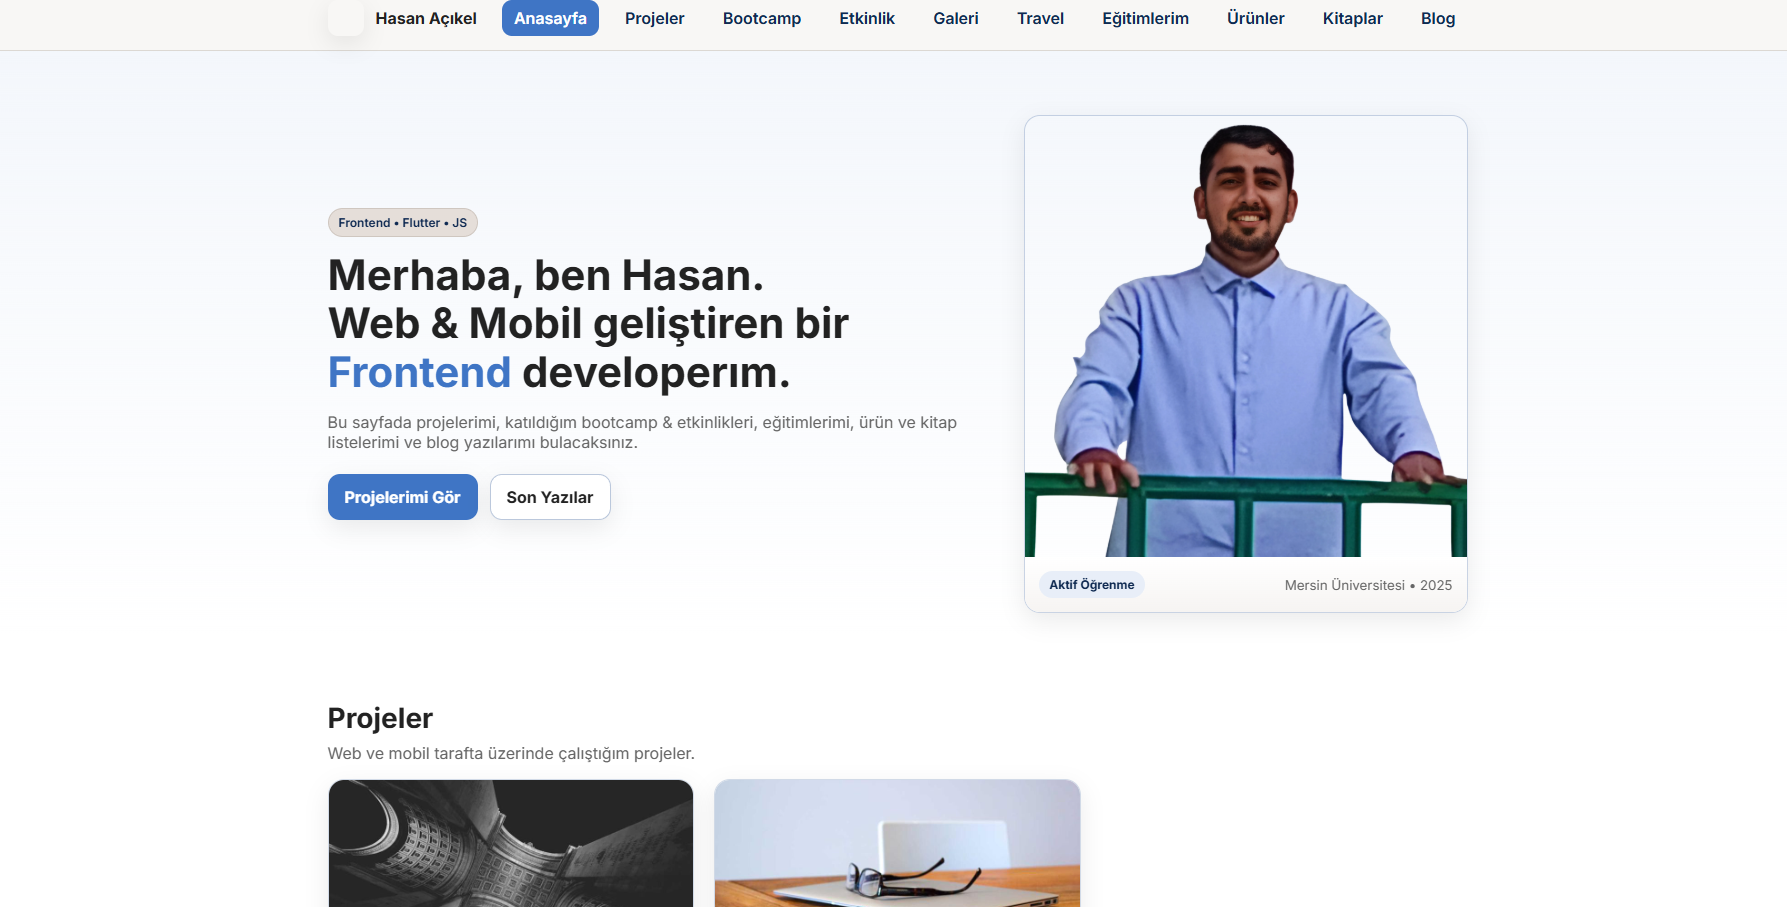
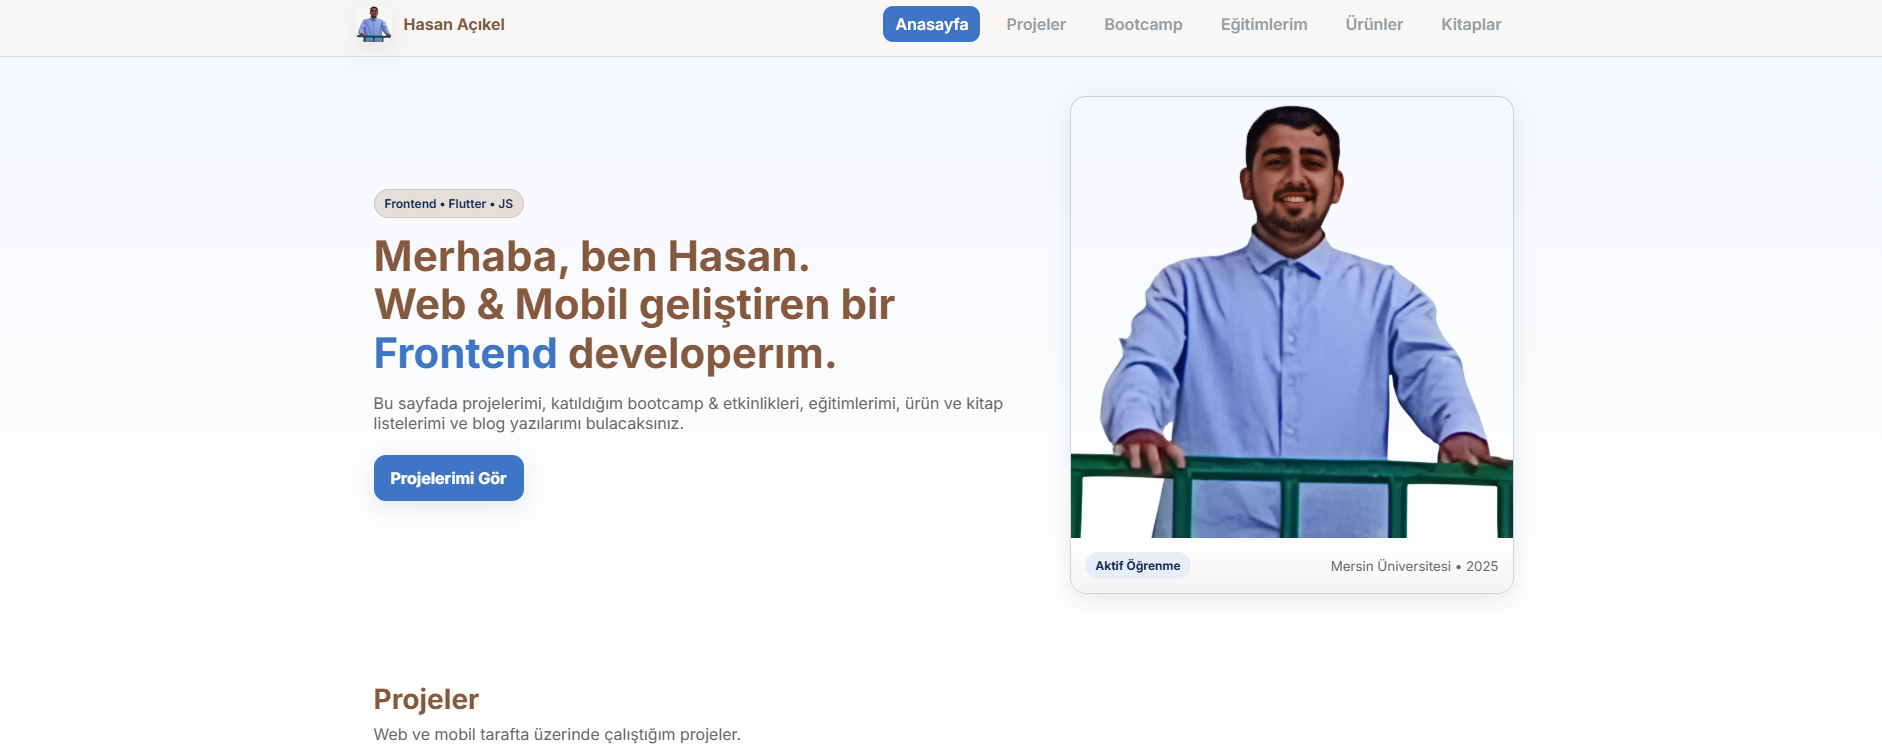
proje tamamlandı

diff --git a/index.html b/index.html
@@ -11,7 +11,7 @@
   <style>
     :root{
       --bg:#ffffff;           
-      --text:#222222;
+      --text:#85593e;
       --muted:#666666;
       --primary:#3f75c5;      
       --accent:#d3c8bf;       
@@ -69,7 +69,7 @@
       background-repeat: no-repeat;
     }
     .menu{display:flex; gap:14px; align-items:center; flex-wrap:wrap}
-    .menu a{padding:8px 12px; border-radius:10px; font-weight:600; color:#0f2a52}
+    .menu a{padding:8px 12px; border-radius:10px; font-weight:600; color:#94a1a6;}
     .menu a:hover{background:color-mix(in srgb, var(--primary) 12%, white 88%)}
     .menu a.active{background:var(--primary); color:white}
     .burger{display:none; border:1px solid color-mix(in srgb, var(--primary) 25%, #000 8%); padding:8px 10px; border-radius:10px}
@@ -105,12 +105,6 @@
     /* Gallery */
     .gallery{display:grid; grid-template-columns:repeat(4, minmax(0,1fr)); gap:10px}
     .gallery img{border-radius:12px; border:1px solid color-mix(in srgb, var(--primary) 16%, #000 6%); cursor:pointer}
-
-    /* Blog */
-    .blog-list{display:grid; grid-template-columns:repeat(2, minmax(0,1fr)); gap:20px}
-    .post{display:flex; gap:16px; border:1px solid color-mix(in srgb, var(--primary) 16%, #000 6%); border-radius:var(--radius); overflow:hidden; background:white}
-    .post img{width:38%; object-fit:cover}
-    .post .body{padding:12px}
 
     /* Footer */
     footer{padding:36px 0; border-top:1px solid color-mix(in srgb, var(--accent) 50%, #000 4%); background:linear-gradient(0deg, color-mix(in srgb, var(--accent) 30%, white 70%), white)}
@@ -148,13 +142,9 @@
         <a href="#anasayfa" class="active">Anasayfa</a>
         <a href="#projeler">Projeler</a>
         <a href="#bootcamp">Bootcamp</a>
-        <a href="#etkinlik">Etkinlik</a>
-        <a href="#galeri">Galeri</a>
-        <a href="#travel">Travel</a>
         <a href="#egitimlerim">Eğitimlerim</a>
         <a href="#urunler">Ürünler</a>
         <a href="#kitaplar">Kitaplar</a>
-        <a href="#blog">Blog</a>
       </nav>
   </header>
 
@@ -163,11 +153,10 @@
     <div class="container hero-grid">
       <div>
         <span class="badge">Frontend • Flutter • JS</span>
-        <h1>Merhaba, ben Hasan. <br/> Web & Mobil geliştiren bir <span style="color:var(--primary)">Frontend</span> developerım.</h1>
-        <p class="lead">Bu sayfada projelerimi, katıldığım bootcamp & etkinlikleri, eğitimlerimi, ürün ve kitap listelerimi ve blog yazılarımı bulacaksınız.</p>
+        <h1>Merhaba, ben Hasan <br/> Web & Mobil geliştiren bir <span style="color:var(--primary)">Frontend</span> developerım.</h1>
+        <p class="lead">Bu sayfada projelerimi, katıldığım bootcamp & eğitimlerimi, ürün ve kitap listelerimi bulacaksınız.</p>
         <div class="cta">
           <a class="btn primary" href="#projeler">Projelerimi Gör</a>
-          <a class="btn ghost" href="#blog">Son Yazılar</a>
         </div>
       </div>
       <div class="hero-card">
@@ -184,10 +173,9 @@
   <section id="projeler">
     <div class="container">
       <h2>Projeler</h2>
-      <p class="section-lead">Web ve mobil tarafta üzerinde çalıştığım projeler.</p>
+      <p class="section-lead">Mobil ve web tarafta üzerinde çalıştığım projeler.</p>
       <div class="grid cards">
         <!-- Proje kartları -->
-        
         <article class="card">
           <img src="notepaddimg.png" alt="Projeden ekran görüntüsü" loading="lazy">
           <div class="content">
@@ -195,6 +183,12 @@
             <p class="lead">Kategori, tarih/saat damgası, kullanıcı girişi, tema geçişi.</p>
             <div style="display:flex; gap:8px; margin-top:8px">
               <span class="chip">Flutter</span><span class="chip">auth</span><span class="chip">database</span>
+            </div>
+            <div style="margin-top:12px;">
+              <a href="https://github.com/hasanacikeloffical/notepadd" target="_blank" rel="noopener" style="color:#3f75c5; font-weight:600; font-size:15px; display:inline-flex; align-items:center; gap:6px;">
+                <svg width="18" height="18" fill="currentColor" style="vertical-align:middle" viewBox="0 0 24 24"><path d="M12 .297c-6.63 0-12 5.373-12 12 0 5.303 3.438 9.8 8.205 11.385.6.113.82-.258.82-.577 0-.285-.01-1.04-.015-2.04-3.338.724-4.042-1.415-4.042-1.415-.546-1.387-1.333-1.756-1.333-1.756-1.089-.745.084-.729.084-.729 1.205.084 1.84 1.236 1.84 1.236 1.07 1.834 2.809 1.304 3.495.997.108-.775.418-1.305.762-1.605-2.665-.305-5.466-1.334-5.466-5.931 0-1.31.469-2.381 1.236-3.221-.124-.303-.535-1.523.117-3.176 0 0 1.008-.322 3.301 1.23.957-.266 1.983-.399 3.003-.404 1.02.005 2.047.138 3.006.404 2.291-1.553 3.297-1.23 3.297-1.23.653 1.653.242 2.873.119 3.176.77.84 1.235 1.911 1.235 3.221 0 4.609-2.803 5.624-5.475 5.921.43.371.823 1.102.823 2.222 0 1.606-.014 2.898-.014 3.293 0 .322.216.694.825.576C20.565 22.092 24 17.592 24 12.297c0-6.627-5.373-12-12-12"/></svg>
+                GitHub Repos
+              </a>
             </div>
           </div>
         </article>
@@ -205,6 +199,12 @@
             <p class="lead">Modern HTML/CSS/JS, responsive tasarım, hızlı & sade.</p>
             <div style="display:flex; gap:8px; margin-top:8px">
               <span class="chip">HTML</span><span class="chip">CSS</span><span class="chip">JS</span>
+            </div>
+            <div style="margin-top:12px;">
+              <a href="https://github.com/hasanacikeloffical/portfolio" target="_blank" rel="noopener" style="color:#3f75c5; font-weight:600; font-size:15px; display:inline-flex; align-items:center; gap:6px;">
+                <svg width="18" height="18" fill="currentColor" style="vertical-align:middle" viewBox="0 0 24 24"><path d="M12 .297c-6.63 0-12 5.373-12 12 0 5.303 3.438 9.8 8.205 11.385.6.113.82-.258.82-.577 0-.285-.01-1.04-.015-2.04-3.338.724-4.042-1.415-4.042-1.415-.546-1.387-1.333-1.756-1.333-1.756-1.089-.745.084-.729.084-.729 1.205.084 1.84 1.236 1.84 1.236 1.07 1.834 2.809 1.304 3.495.997.108-.775.418-1.305.762-1.605-2.665-.305-5.466-1.334-5.466-5.931 0-1.31.469-2.381 1.236-3.221-.124-.303-.535-1.523.117-3.176 0 0 1.008-.322 3.301 1.23.957-.266 1.983-.399 3.003-.404 1.02.005 2.047.138 3.006.404 2.291-1.553 3.297-1.23 3.297-1.23.653 1.653.242 2.873.119 3.176.77.84 1.235 1.911 1.235 3.221 0 4.609-2.803 5.624-5.475 5.921.43.371.823 1.102.823 2.222 0 1.606-.014 2.898-.014 3.293 0 .322.216.694.825.576C20.565 22.092 24 17.592 24 12.297c0-6.627-5.373-12-12-12"/></svg>
+                GitHub Repo
+              </a>
             </div>
           </div>
         </article>
@@ -219,6 +219,7 @@
       <p class="section-lead">Katıldığım veya takip ettiğim bootcamp programları.</p>
       <div class="grid cards">
         <article class="card">
+          <img src="mobilsertifika.png" alt="BTK Akademi Flutter Sertifika" style="width:100%; aspect-ratio:4/3; object-fit:cover;">
           <div class="content">
             <h3>BTK Akademi • Flutter ile Mobil Uygulama Geliştirme</h3>
             <p>Dart programlama dili, Flutter framework, mobil uygulama geliştirme temelleri.</p>
@@ -226,102 +227,25 @@
           </div>
         </article>
         <article class="card">
-          <div class="content">
-            <h3>TechCareer.Net • Uygulamalarla SQL Eğitimi</h3>
-            <p>Veritabanı tasarımı, SQL sorguları, CRUD işlemleri.</p>
-            <span class="chip">Devam</span>
-          </div>
-        </article>
-        <article class="card">
+          <img src="promptsertifika.png" alt="YOBODOBO Prompt Engineering Sertifika" style="width:100%; aspect-ratio:4/3; object-fit:cover;">
           <div class="content">
             <h3>YOBODOBO • Prompt Engineering </h3>
             <p>Yapay zeka ve dil işleme temelleri.</p>
             <span class="chip">Tamamlandı</span>
           </div>
         </article>
-      </div>
-    </div>
-  </section>
-
-  <!-- Etkinlik -->
-  <section id="etkinlik">
-    <div class="container">
-      <h2>Etkinlik</h2>
-      <p class="section-lead">Meetup, hackathon ve topluluk etkinlikleri.</p>
-      <div class="grid cards">
         <article class="card">
+          <img src="techcareer-sql-sertifika.jpg" alt="TechCareer SQL Sertifika" style="width:100%; aspect-ratio:4/3; object-fit:cover;">
           <div class="content">
-            <h3>GDG Mersin Meetup</h3>
-            <p>Frontend trendleri ve canlı demo.</p>
-            <span class="chip">Konuk</span>
-          </div>
-        </article>
-        <article class="card">
-          <div class="content">
-            <h3>Flutter Festival</h3>
-            <p>Widget mimarisi ve performans optimizasyonu.</p>
-            <span class="chip">Katılımcı</span>
-          </div>
-        </article>
-        <article class="card">
-          <div class="content">
-            <h3>React Hackathon</h3>
-            <p>Takım çalışması ile SPA prototipi.</p>
-            <span class="chip">Takım</span>
+            <h3>TechCareer.Net • Uygulamalarla SQL Eğitimi</h3>
+            <p>Veritabanı tasarımı, SQL sorguları, CRUD işlemleri.</p>
+            <span class="chip">Devam</span>
           </div>
         </article>
       </div>
     </div>
   </section>
-
-  <!-- Galeri -->
-  <section id="galeri" style="background:linear-gradient(180deg, white, color-mix(in srgb, var(--accent) 22%, white 78%))">
-    <div class="container">
-      <h2>Galeri</h2>
-      <p class="section-lead">Kod, ekran görüntüleri ve seyahat anıları.</p>
-      <div class="gallery" id="gallery">
-        <img src="galeri1.jpg" alt="Galeri görseli" />
-        <img src="galeri2.jpg" alt="Galeri görseli" />
-        <img src="travel1.jpg" alt="Galeri görseli" />
-        <img src="travel2.jpg" alt="Galeri görseli" />
-      </div>
-    </div>
-  </section>
-
-  <!-- Travel -->
-  <section id="travel">
-    <div class="container">
-      <h2>Travel</h2>
-      <p class="section-lead">Gezdiğim yerlerden kısa notlar ve fotoğraflar.</p>
-      <div class="grid cards">
-        <article class="card">
-          <img src="https://picsum.photos/800/480?random=21" alt="Seyahat görseli" loading="lazy">
-          <div class="content">
-            <h3>Mersin • Sahil</h3>
-            <p>Akşam yürüyüşleri ve deniz esintisi.</p>
-            <span class="chip">Türkiye</span>
-          </div>
-        </article>
-        <article class="card">
-          <img src="https://picsum.photos/800/480?random=22" alt="Seyahat görseli" loading="lazy">
-          <div class="content">
-            <h3>Hatay • Tarih</h3>
-            <p>Lezzet ve kültür rotası.</p>
-            <span class="chip">Türkiye</span>
-          </div>
-        </article>
-        <article class="card">
-          <img src="https://picsum.photos/800/480?random=23" alt="Seyahat görseli" loading="lazy">
-          <div class="content">
-            <h3>İstanbul • Teknoloji Etkinliği</h3>
-            <p>Konferans & networking notlarım.</p>
-            <span class="chip">Etkinlik</span>
-          </div>
-        </article>
-      </div>
-    </div>
-  </section>
-
+  
   <!-- Eğitimlerim -->
   <section id="egitimlerim" style="background:color-mix(in srgb, var(--accent) 18%, white 82%);">
     <div class="container">
@@ -329,8 +253,8 @@
       <p class="section-lead">Aldığım dersler, sertifikalar ve öğrenme yolları.</p>
       <div class="grid cards">
         <article class="card"><div class="content"><h3>Bilgisayar Programcılığı</h3><p>Mersin Üniversitesi • 2. sınıf</p><span class="chip">Okul</span></div></article>
-        <article class="card"><div class="content"><h3>Frontend Yol Haritası</h3><p>HTML, CSS, JS, React temelleri.</p><span class="chip">Kendi Öğrenimim</span></div></article>
-        <article class="card"><div class="content"><h3>Bioinformatik Çalışmaları</h3><p>GEO/Orange3, veri görselleştirme.</p><span class="chip">Araştırma</span></div></article>
+        <article class="card"><div class="content"><h3>Frontend Developer</h3><p>HTML, CSS, JS.</p><span class="chip">Kendi Öğrenimim</span></div></article>
+        <article class="card"><div class="content"><h3>Proje Yönetimi</h3><p>Proje planlama, zaman yönetimi, ekip koordinasyonu.</p><span class="chip">Stajer</span></div></article>
       </div>
     </div>
   </section>
@@ -339,20 +263,13 @@
   <section id="urunler">
     <div class="container">
       <h2>Ürünler</h2>
-      <p class="section-lead">Küçük dijital ürünler ve şablonlar.</p>
+      <p class="section-lead">E-ticaret siteleri ve demo projelerim ve kitaplarım.</p>
       <div class="grid cards">
         <article class="card">
           <div class="content">
             <h3>Portfolio Şablonu</h3>
             <p>Hızlı kurulum, hafif tasarım, SEO dostu.</p>
             <div class="cta"><a class="btn primary" href="#" onclick="alert('Demo yakında!')">Demo</a></div>
-          </div>
-        </article>
-        <article class="card">
-          <div class="content">
-            <h3>Not Uygulaması UI Kit</h3>
-            <p>Flutter için bileşen seti.</p>
-            <div class="cta"><a class="btn ghost" href="#" onclick="alert('İndirilecek dosya yakında!')">İndir</a></div>
           </div>
         </article>
       </div>
@@ -365,33 +282,28 @@
       <h2>Kitaplar</h2>
       <p class="section-lead">Okuduklarım ve önerilerim.</p>
       <div class="grid cards">
-        <article class="card"><div class="content"><h3>Clean Code</h3><p>Robert C. Martin</p><span class="chip">Yazılım</span></div></article>
-        <article class="card"><div class="content"><h3>Pragmatic Programmer</h3><p>Andrew Hunt, David Thomas</p><span class="chip">Yazılım</span></div></article>
-        <article class="card"><div class="content"><h3>Deep Work</h3><p>Cal Newport</p><span class="chip">Verimlilik</span></div></article>
-      </div>
-    </div>
-  </section>
-
-  <!-- Blog -->
-  <section id="blog">
-    <div class="container">
-      <h2>Blog Yazıları</h2>
-      <p class="section-lead">Frontend ve Flutter notlarım.</p>
-      <div class="blog-list">
-        <article class="post">
-          <img src="https://picsum.photos/800/480?random=31" alt="Blog görseli" loading="lazy">
-          <div class="body">
-            <h3>CSS Grid ile Responsive Kartlar</h3>
-            <p class="lead">Sade grid ayarlarıyla ölçeklenebilir kart düzeni.</p>
-            <a class="btn ghost" href="#" onclick="alert('Yazı içeriği için markdown dosyası ekleyin.')">Oku</a>
+        <article class="card">
+          <img src="kozmos.jpg" alt="Kozmos" style="width:100%; aspect-ratio:3/4; object-fit:cover;">
+          <div class="content">
+            <h3>Kozmos</h3>
+            <p>Carl Sagan</p>
+            <span class="chip">Evrenin ve Yaşamın Sırları</span>
           </div>
         </article>
-        <article class="post">
-          <img src="https://picsum.photos/800/480?random=32" alt="Blog görseli" loading="lazy">
-          <div class="body">
-            <h3>Fetch API ile JSON</h3>
-            <p class="lead">API'den veri çekme ve listeleme örneği.</p>
-            <a class="btn ghost" href="#" onclick="alert('Yazı içeriği için markdown dosyası ekleyin.')">Oku</a>
+        <article class="card">
+          <img src="fizik.jpg" alt="Fizik" style="width:100%; aspect-ratio:3/4; object-fit:cover;">
+          <div class="content">
+            <h3>Fizik</h3>
+            <p>AristoTeles</p>
+            <span class="chip">Yunan Felsefesi</span>
+          </div>
+        </article>
+        <article class="card">
+          <img src="insaninanlamarayaisi.jpeg" alt="İnsanın Anlam Arayışı" style="width:100%; aspect-ratio:3/4; object-fit:cover;">
+          <div class="content">
+            <h3>İnsanın Anlam Arayışı</h3>
+            <p>Victor E. Frankl</p>
+            <span class="chip">Verimlilik</span>
           </div>
         </article>
       </div>
@@ -403,14 +315,13 @@
     <div class="container footer-grid">
       <div>
         <h3 style="margin:0 0 8px">Hasan Açıkel</h3>
-        <p style="margin:0; color:var(--muted)">Frontend Developer Adayı • Mersin Üniversitesi</p>
+        <p style="margin:0; color:var(--muted)">Frontend Developer • Mersin Üniversitesi</p>
       </div>
       <div>
         <strong>Bağlantılar</strong>
         <ul style="list-style:none; padding:8px 0 0; margin:0; line-height:1.9">
           <li><a href="#projeler">Projeler</a></li>
           <li><a href="#egitimlerim">Eğitimlerim</a></li>
-          <li><a href="#blog">Blog</a></li>
         </ul>
       </div>
       <div>
@@ -418,7 +329,7 @@
         <ul style="list-style:none; padding:8px 0 0; margin:0; line-height:1.9">
           <li><a href="mailto:hasan@example.com">E‑posta</a></li>
           <li><a href="https://github.com/hasanacikeloffical" target="_blank" rel="noopener">GitHub</a></li>
-          <li><a href="#" onclick="alert('LinkedIn profilini ekleyin!')">LinkedIn</a></li>
+          <li><a href="https://www.linkedin.com/in/hasan-a%C3%A7%C4%B1kel-337b22326/" target="_blank" rel="noopener">LinkedIn</a></li>
         </ul>
       </div>
     </div>
@@ -430,7 +341,7 @@
     <img id="lightboxImg" src="" alt="Büyük görsel" style="max-width:100%; max-height:90vh; border-radius:16px; box-shadow:0 20px 60px rgba(0,0,0,.5); border:4px solid var(--accent)" />
   </div>
 
-  <button id="toTop" aria-label="Yukarı çık" style="position:fixed; right:16px; bottom:16px; padding:10px 12px; border-radius:12px; border:1px solid color-mix(in srgb, var(--primary) 25%, #000 8%); background:var(--primary); color:#fff; font-weight:800; box-shadow:var(--shadow); display:none;">↑</button>
+  <button id="toTop" aria-label="Yukarı çık" style="position:fixed; right:16px; bottom:16px; padding:10px 12px; border-radius:25px; border:1px solid color-mix(in srgb, var(--primary) 25%, #000 8%); background:#94a1a6; color:#fff; font-weight:700; display:none;">↑</button>
 
   <script>
     // Yıl
